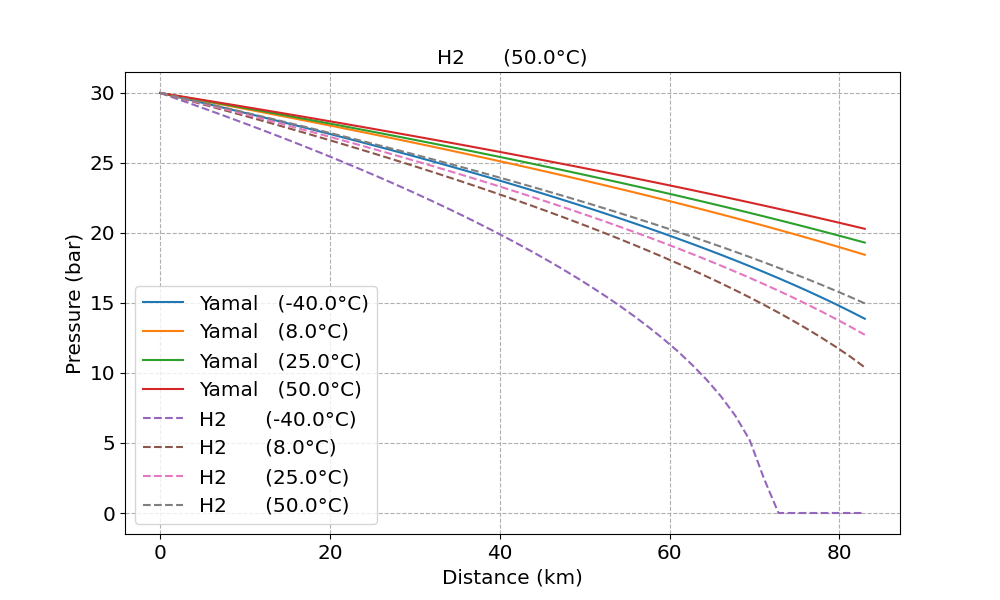
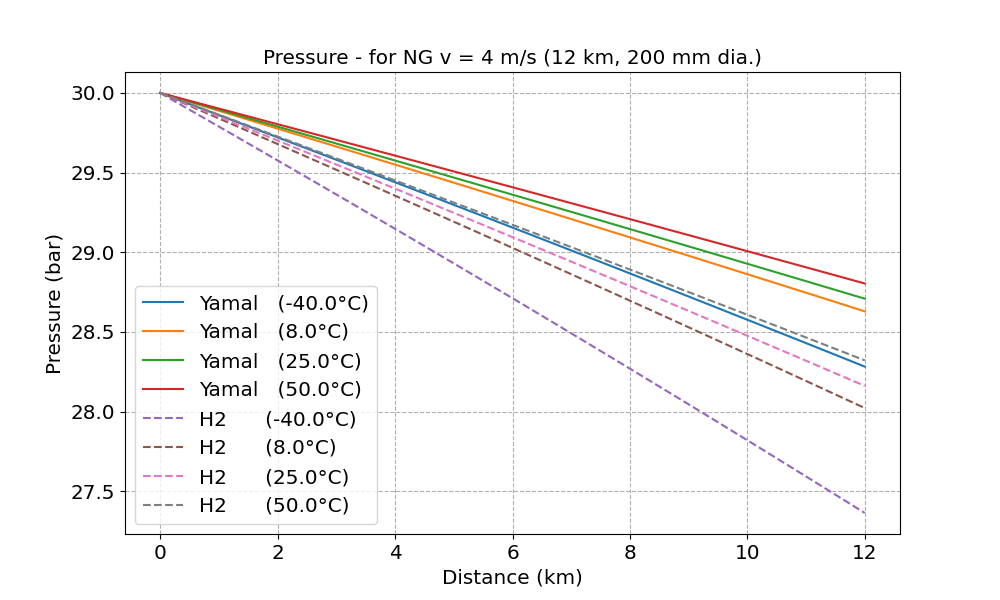
Pressure floor at 1 bar

diff --git a/moody.py b/moody.py
@@ -761,7 +761,7 @@ def LPM(g, T, P_ent, L_seg, D, Qh, rr=1e-5, f_function=afzal_mod):
 
     return lpm # in seconds
 
-def plot_lpm(L_seg = 83): # L_seg (km)
+def plot_lpm(L_seg = 12): # L_seg (km)
     """Plot LPM  for pure hydrogen and natural gases
     Standardise on 4 m/s for NG, and equivalent energy velocity for H2
     """
@@ -826,7 +826,7 @@ def plot_lpm(L_seg = 83): # L_seg (km)
             plotit(g, p_x, "linear", f, label, x_range)
             #p_final[g][T] =   p_x[T][-1] # printed at end of program
     plt.ylabel('Pressure (bar)')
-    saveit( label,filename)
+    saveit(f'Pressure - for NG v ={v:2.0f} m/s ({L_seg} km, {D*1000:.0f} mm dia.)',filename)
     # END OF COPY FOR DEBUGGING LPM
 
 
@@ -868,11 +868,11 @@ def get_final_pressure(g, T, P_zero, L_pipe, D, Qh, rr=1e-5, f=afzal_mod):
         ff = f(Re, rr)
         t1 = (P_zero*1e5)**2
         t2 = B * ff * Z * L_pipe / D
-        if t1 > t2:
+        if t1 > t2 + 1:
             fp = np.sqrt(t1 - t2 ) # Pa
         else:
-            fp = 1e-9
-            print(f"## Negative  sqrt  {g:7} {T-T273:4.0f}°C {P_zero:8.3f} {P_mean:8.3f} {t1:.3e} {t2:.3e}")
+            fp = 1
+            print(f"## Floor P=1 bar  {g:7} {T-T273:4.0f}°C {P_zero=:8.3f} {P_mean=:8.3f} {t1:.3e} {t2:.3e}")
         return fp * 1e-5 # bar
         
     fp1 = estimate(g, T, P_zero, P_zero)
